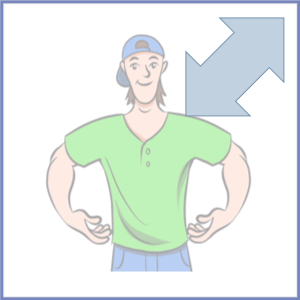
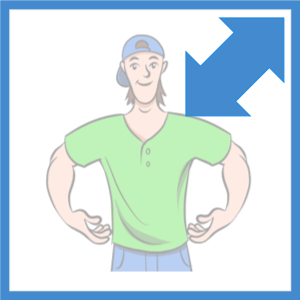
cleaned sign boxes, added intro

Changed region(s): [[0.0, 0.0, 1.0, 1.0]]

diff --git a/css/main.css b/css/main.css
@@ -18,10 +18,14 @@ body {
   box-shadow: 0px 0px 37px -5px rgba(0,0,0,0.75);
 }
 
+.slick-slide {
+  outline: none !important;
+}
+
 .slick-prev, .slick-next {
   width: 50px;
   height: 50px;
-  opacity: .4;
+  opacity: .3;
   z-index: 10;
 }
 
@@ -35,7 +39,7 @@ body {
 
 .slick-prev:before, .slick-next:before {
   font-size: 50px;
-  color: #cecece;
+  color: #fff;
 }
 
 .slider-page {

diff --git a/index.html b/index.html
@@ -17,6 +17,10 @@
   <div class="wrapper">
 
     <div class="slider">
+      <!-- intro -->
+      <div class="slider-page">
+        <img src="imgs/pages/intro.jpg" class="page-img img-responsive" />
+      </div>
       <!-- page 01 -->
       <div class="slider-page">
         <img src="imgs/pages/01.jpg" class="page-img img-responsive" />
